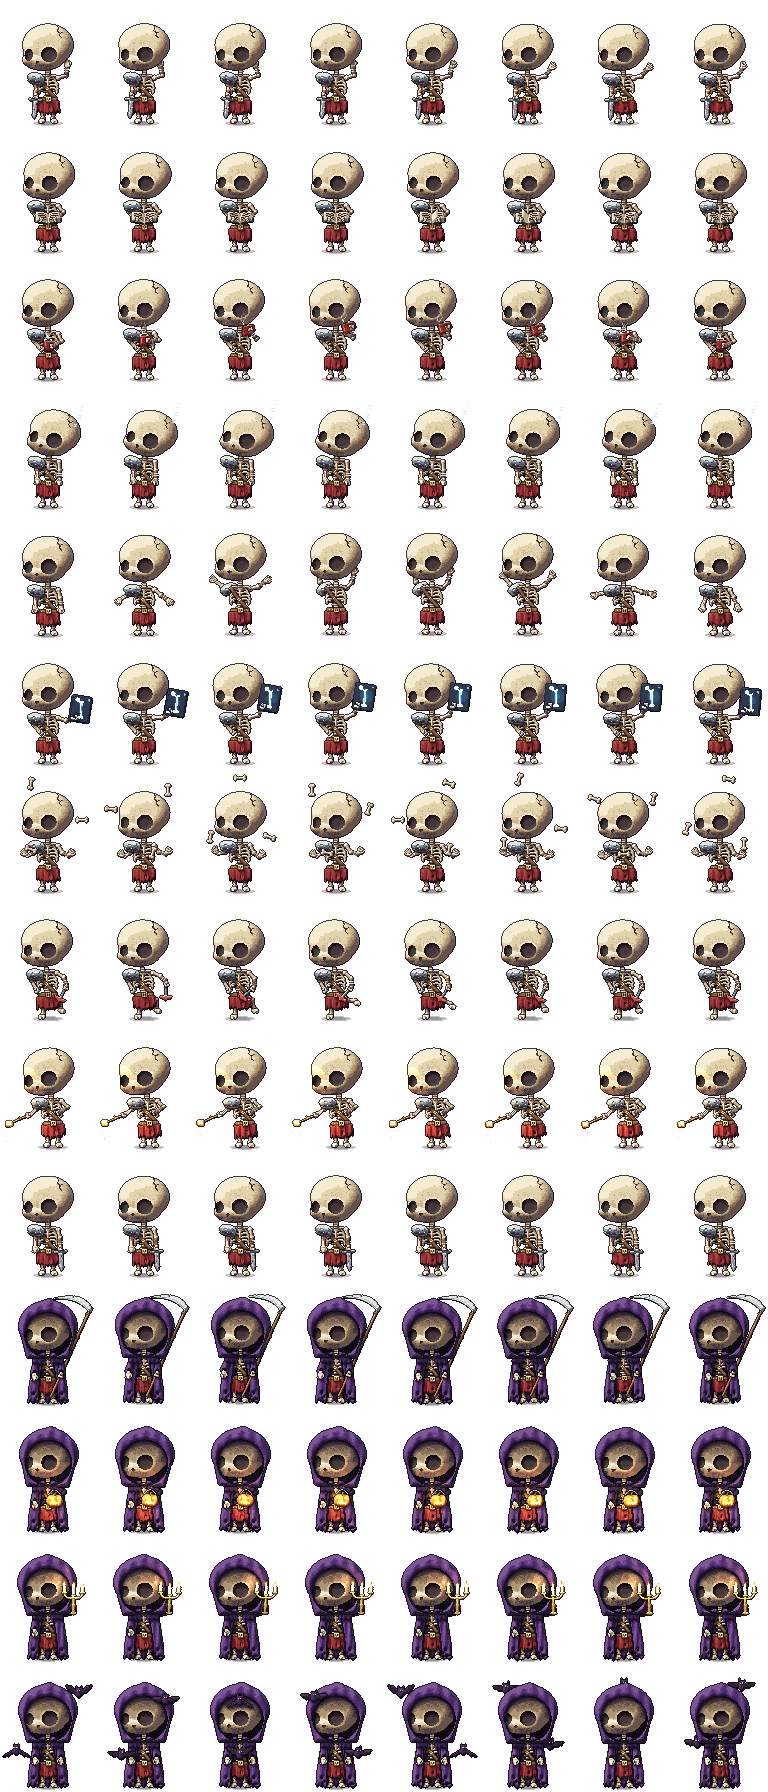
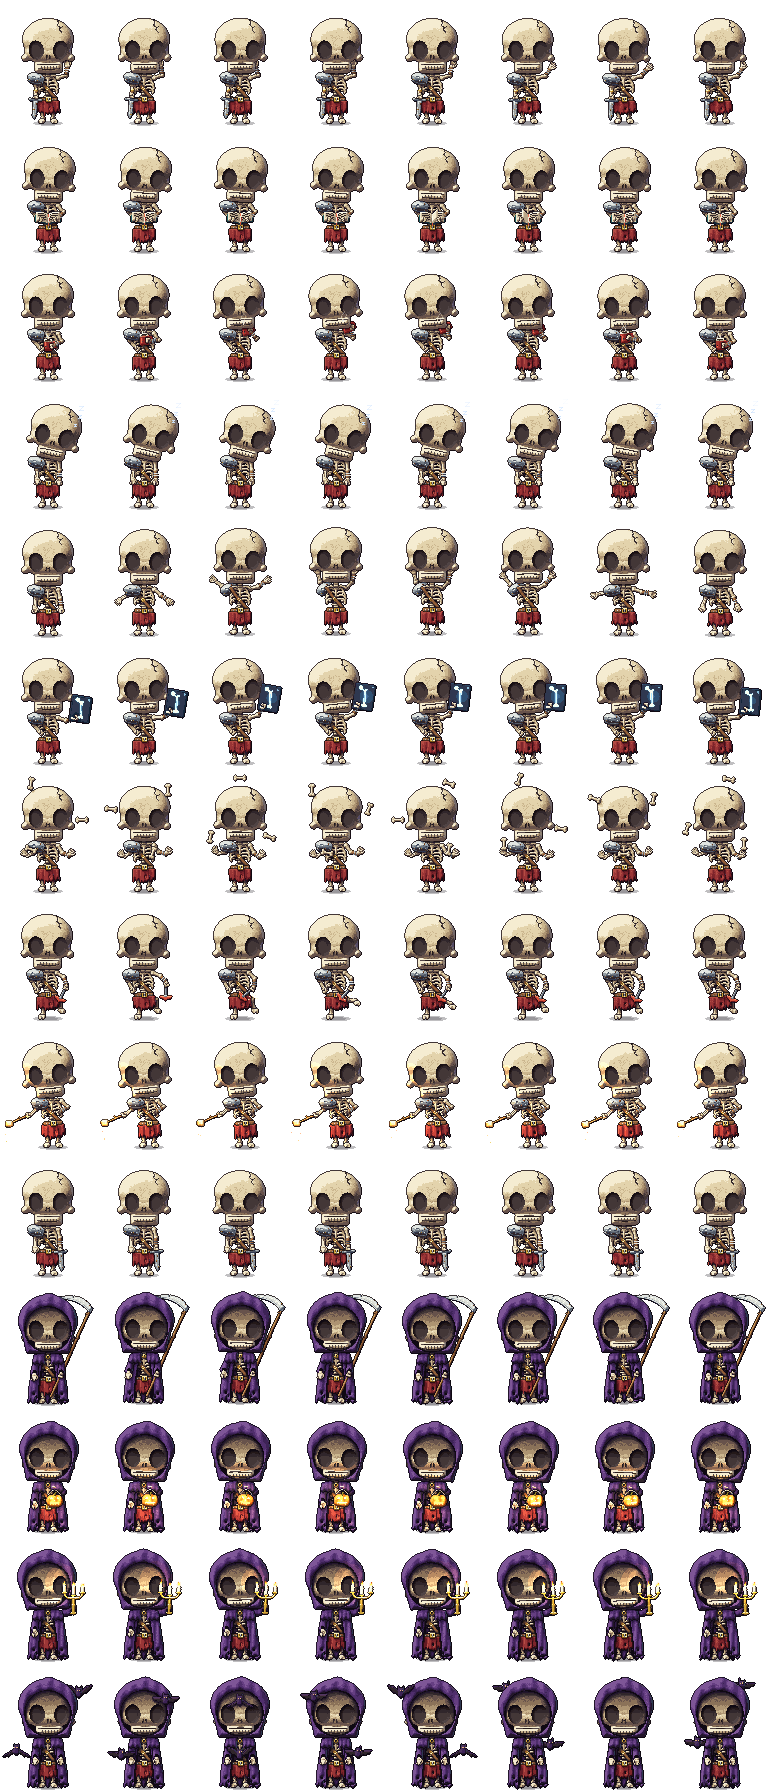
Mascote: crânio de frente com uma fileira de dentes, como a nova referência
Órbitas ovais em pé, nariz de duas fendas, maçãs do rosto saltadas e a
maxila estreita com uma fileira só de dentes claros (traços encaixados na
grade de pixels).

Claude-Session: https://claude.ai/code/session_01GbKgzzZKzHQDKNkw1eCv9w

diff --git a/scripts/gerar_mascote.py b/scripts/gerar_mascote.py
@@ -583,7 +583,7 @@ def montar(p: Pose) -> Rig:
     pesc = tr.p(0, -28.4 - p.resp * 0.5)
     piv = (pesc[0] + p.cab_dx, pesc[1] + p.cab_dy)
     ang_c = p.inclina + p.cab
-    cab = Quadro2D(Quadro2D(piv, ang_c).p(0, -21), ang_c)   # o crânio sem mandíbula desce um pouco
+    cab = Quadro2D(Quadro2D(piv, ang_c).p(0, -26.5), ang_c)
     r = Rig(raiz, P, tr, cab)
     for lado, s, (a1, a2, a3, _) in (("e", -1, p.be), ("d", 1, p.bd)):
         om = tr.p(s * 10.2, -22.8 - p.resp * 0.7)
@@ -681,40 +681,45 @@ def cranio(t: Tela, r: Rig, p: Pose, sob_capuz=False):
     q = r.cab
     uv = q.uv()
     v = p.vira
-    # calota: larga e redonda em cima
+    # crânio de frente (referência do Tales, 30/10/2026): calota grande, maçãs do rosto saltadas dos lados e a maxila
+    # estreita embaixo, com uma fileira só de dentes grandes e claros
     calota = elipse((0, -6.5), 25.0, 20.5)
-    # rosto largo que fecha numa curva redonda logo abaixo do nariz: crânio de peça só, sem queixo saliente,
-    # sem mandíbula nem dentes (referência do Tales, 30/10/2026)
-    rosto = elipse((-5.5 + v * 0.8, 8.5), 19.5, 10.0)
-    f = calota.suave(rosto, 6.0)
+    rosto = elipse((v * 0.8, 7.0), 23.0, 11.0)
+    macas = circulo((-22.6 + v * 1.2, 12.0), 3.4) | circulo((22.6 + v * 1.2, 12.0), 3.4)
+    maxila = caixa((0.4 + v * 1.4, 21.4), 13.6, 5.6, r=3.2)
+    f = calota.suave(rosto, 5.0).suave(macas, 2.0).suave(maxila, 2.6)
     t.pinta(q.forma(f), "osso", 8.0, R=13.0, pid="cranio", uv=uv, semente=51)
-    # sombras de modelado: a face virada três-quartos para a esquerda, a nuca clara e redonda à direita
-    t.pinta(q.forma(elipse((-20.0 + v * 0.6, 9.0), 4.0, 8.0)), "osso", 0, sobre="cranio", tom=-0.12, uv=uv, semente=51, normal=False)
-    t.pinta(q.forma(elipse((-4.0 + v * 1.3, 14.6), 9.0, 2.2)), "osso", 0, sobre="cranio", tom=-0.08, uv=uv, semente=51, normal=False)
+    # sombras de modelado: têmporas, embaixo das maçãs (onde a maxila entra) e a testa mais clara
+    for sx in (-1, 1):
+        t.pinta(q.forma(elipse((sx * 21.0 + v * 0.6, 1.0), 3.4, 7.0)), "osso", 0, sobre="cranio", tom=-0.12, uv=uv, semente=51, normal=False)
+        t.pinta(q.forma(elipse((sx * 16.8 + v * 1.3, 17.6), 3.0, 2.6)), "osso", 0, sobre="cranio", tom=-0.16, uv=uv, semente=51, normal=False)
     t.pinta(q.forma(elipse((-7 + v, -16.0), 8.0, 5.5)), "osso", 0, sobre="cranio", tom=0.05, uv=uv, semente=51, normal=False)
     # rachadura irregular no alto à direita, com a beira de baixo clara
     rach = [(9.5, -25.6), (10.6, -22.8), (9.4, -20.6), (12.2, -18.0), (11.6, -15.6), (13.8, -13.4)]
     t.pinta(q.forma(traco([(x + 0.7, y + 0.7) for x, y in rach], 0.5)), "osso", 0, sobre="cranio", tom=0.16, uv=uv, semente=51, normal=False)
     t.pinta(q.forma(traco(rach, 0.55)), "orbita", 0, sobre="cranio", R=-1, tom=0.25)
     t.pinta(q.forma(capsula((12.2, -18.0), (14.8, -19.4), 0.45)), "orbita", 0, sobre="cranio", R=-1, tom=0.25)
-    # órbitas em três-quartos (referência do Tales, 30/10/2026): a da direita grande e redonda, com aro de osso claro;
-    # a da esquerda estreita, encostada na borda do crânio. Fundo cinza-escuro, sem brilho nos olhos.
-    ox = v * 2.0
-    grande = elipse((0.6 + ox, 3.0), 8.0, 7.6, ang=-8)
-    aro = elipse((0.6 + ox, 3.0), 9.9, 9.4, ang=-8) - grande
-    t.pinta(q.forma(aro), "osso", 0, sobre="cranio", tom=0.12, uv=uv, semente=51, normal=False)
-    lateral = elipse((-19.6 + ox, 3.6), 4.2, 5.9, ang=6) & f
-    for orb in (grande, lateral):
-        # sombra mais funda no alto da órbita, fundo um pouco mais claro embaixo
+    # órbitas: ovais grandes, em pé e levemente abertas para fora, escuras e sem brilho
+    for sx in (-1, 1):
+        cx = sx * 12.0 + v * 2.2
+        orb = elipse((cx, 4.2), 7.4 * (1 - 0.1 * v * sx), 9.6, ang=sx * 8)
         t.pinta(q.forma(orb), "orbita", 8.01, R=-3.5, pid="cranio", tom=0.0, uv=uv)
-    t.pinta(q.forma(elipse((1.4 + ox, 4.6), 5.6, 4.8, ang=-8)), "orbita", 0, sobre="cranio", tom=0.18, normal=False)
-    t.pinta(q.forma(elipse((-19.0 + ox, 5.0), 2.4, 3.6)), "orbita", 0, sobre="cranio", tom=0.14, normal=False)
-    # cavidade nasal pequena, embaixo entre as órbitas, puxada para a esquerda
-    nz = (-11.0 + v * 2.4, 11.6)
-    nariz = poligono([(nz[0] - 2.2, nz[1] - 1.4), (nz[0] + 2.2, nz[1] - 1.4), (nz[0], nz[1] + 2.0)]).suave(circulo((nz[0], nz[1] - 0.8), 1.5), 0.6)
-    t.pinta(q.forma(nariz), "orbita", 8.01, R=-1.2, pid="cranio", tom=0.05)
-    # sem boca desenhada: só a sombra da curva de baixo do rosto, para dar volume
-    t.pinta(q.forma(elipse((v * 1.0, 19.0), 14.0, 2.4)), "osso", 0, sobre="cranio", tom=-0.1, uv=uv, semente=51, normal=False)
+        t.pinta(q.forma(elipse((cx + sx * 0.4, 5.6), 5.0, 6.6, ang=sx * 8)), "orbita", 0, sobre="cranio", tom=0.12, normal=False)
+    # nariz: duas fendas pequenas
+    for sx in (-1, 1):
+        t.pinta(q.forma(elipse((sx * 1.5 + v * 2.4, 11.4), 0.95, 2.4, ang=sx * -10)), "orbita", 8.01, R=-1.0, pid="cranio", tom=0.05)
+    # dentes: uma fileira só, grandes e claros, separados por traços finos encaixados na grade de pixels
+    bx = 0.4 + v * 1.4
+    t.pinta(q.forma(traco(bezier((bx - 11.0, 18.8), (bx, 18.0), (bx + 11.0, 18.8), 9), 0.55)), "orbita", 0, sobre="cranio", tom=0.2)
+    t.pinta(q.forma(traco(bezier((bx - 10.4, 22.6), (bx, 24.2), (bx + 10.4, 22.6), 9), 0.55)), "orbita", 0, sobre="cranio", tom=0.2)
+    t.pinta(q.forma(elipse((bx, 20.0), 14.0, 5.4)), "osso", 0, sobre="cranio", tom=0.1, uv=uv, semente=51, normal=False)
+    t.pinta(q.forma(caixa((bx, 20.9), 10.6, 1.8, r=0.6)), "osso", 0, sobre="cranio", tom=0.26, uv=uv, semente=51, normal=False)
+    for i in range(1, 7):
+        # cada traço é uma coluna de 1 pixel encaixada na grade (não some quando a cabeça inclina)
+        x = bx - 10.5 + i * 3.0
+        (x0, y0), (_, y1) = q.p(x, 19.6), q.p(x, 22.4 + 0.6 * (1 - abs(i - 3.5) / 3.5))
+        cx_, ya, yb = round(x0) + 0.5, round(y0), round(y1)
+        t.pinta(caixa((cx_, (ya + yb) / 2 + 0.5), 0.5, max(1.0, (yb - ya) / 2)), "orbita", 8.4, R=0.3, pid="dentes", sem_contorno=True, tom=0.28)
     if sob_capuz:
         # sombra do capuz no alto do crânio
         def sombra_capuz(X, Y):
